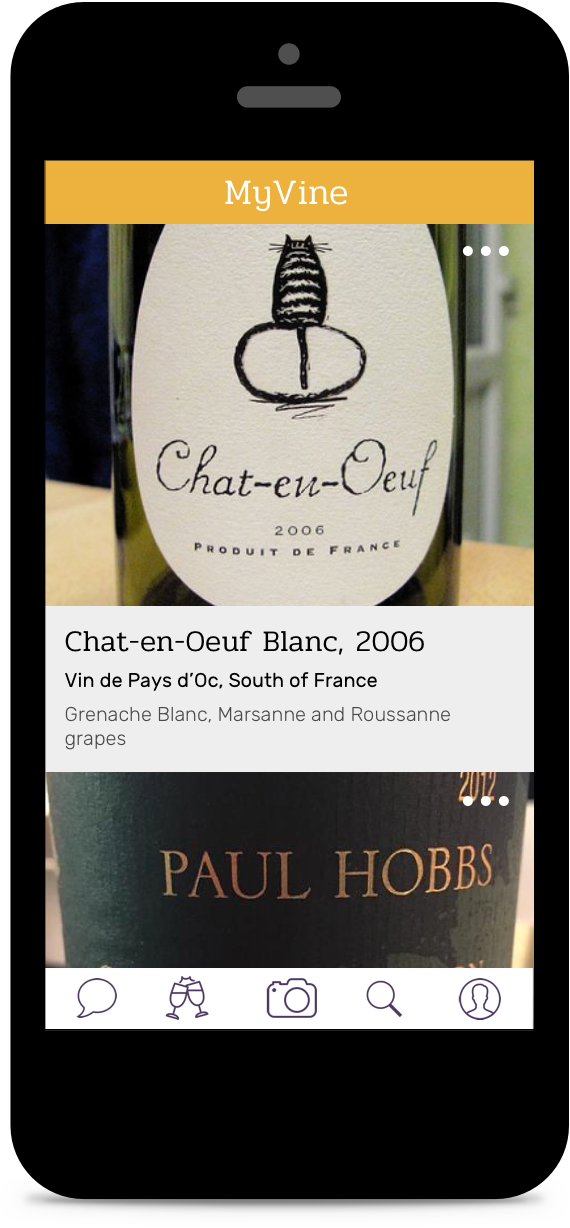
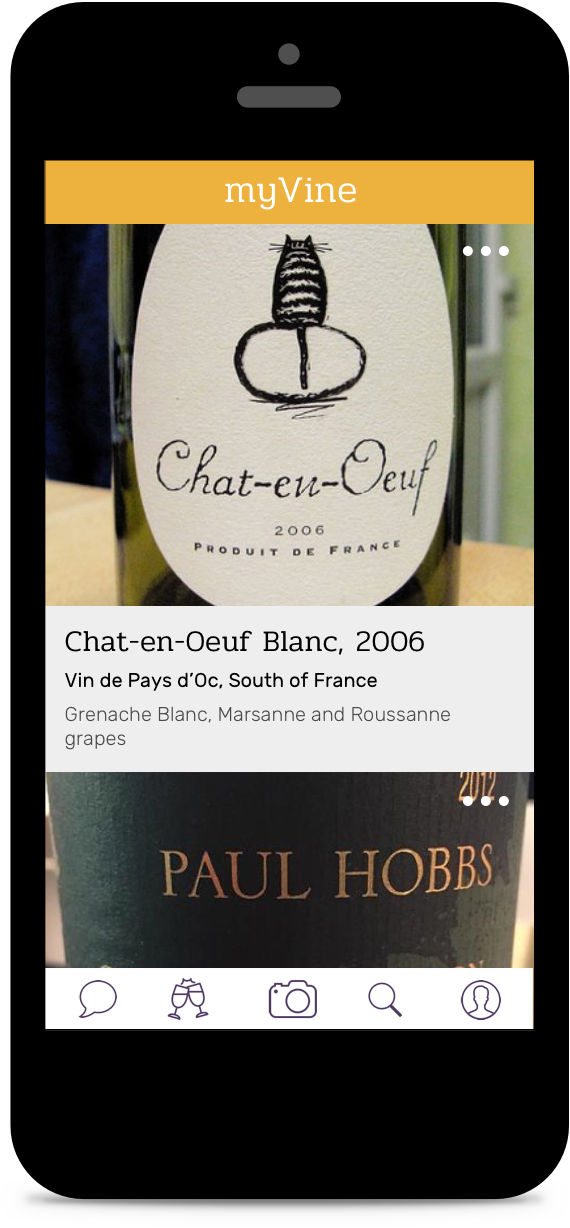
more copy edits

diff --git a/index.html b/index.html
@@ -3,7 +3,7 @@
 <head>
 	<title>Vine Academy</title>
 
-	<meta name="description" content="Looking to learn about the basics of wine? We have it all covered here for you.">
+	<meta name="description" content="Have you ever wanted to know more about the wine you are tasting? Vine Academy gives you all the information you will need to discuss and enjoy wine to the fullest.">
 	<meta name="viewport" content="width=device-width, initial-scale=1">
 
 	<link href="https://fonts.googleapis.com/css?family=Pridi:200,300,400|Quicksand|Rubik:300,400,500" rel="stylesheet">
@@ -194,7 +194,7 @@
 							<img src="images/app2.png" alt="App Image" class="appImage">
 						</div>
 						<div id="appCopy" class="alignleft">
-							<h2>Rate, review and keep track of what you love with the new MyVine app!</h2>
+							<h2>Rate, review and keep track of what you love with the new myVine app!</h2>
 							<p>Take a photo of a wine label and instantly get ratings and descriptions then "check in" to keep track of your favorites.</p>
 							<p class="bullets">&middot; Join a growing commuity of wine lovers<br>
 								&middot; Easily reference a list of your favorites<br>
